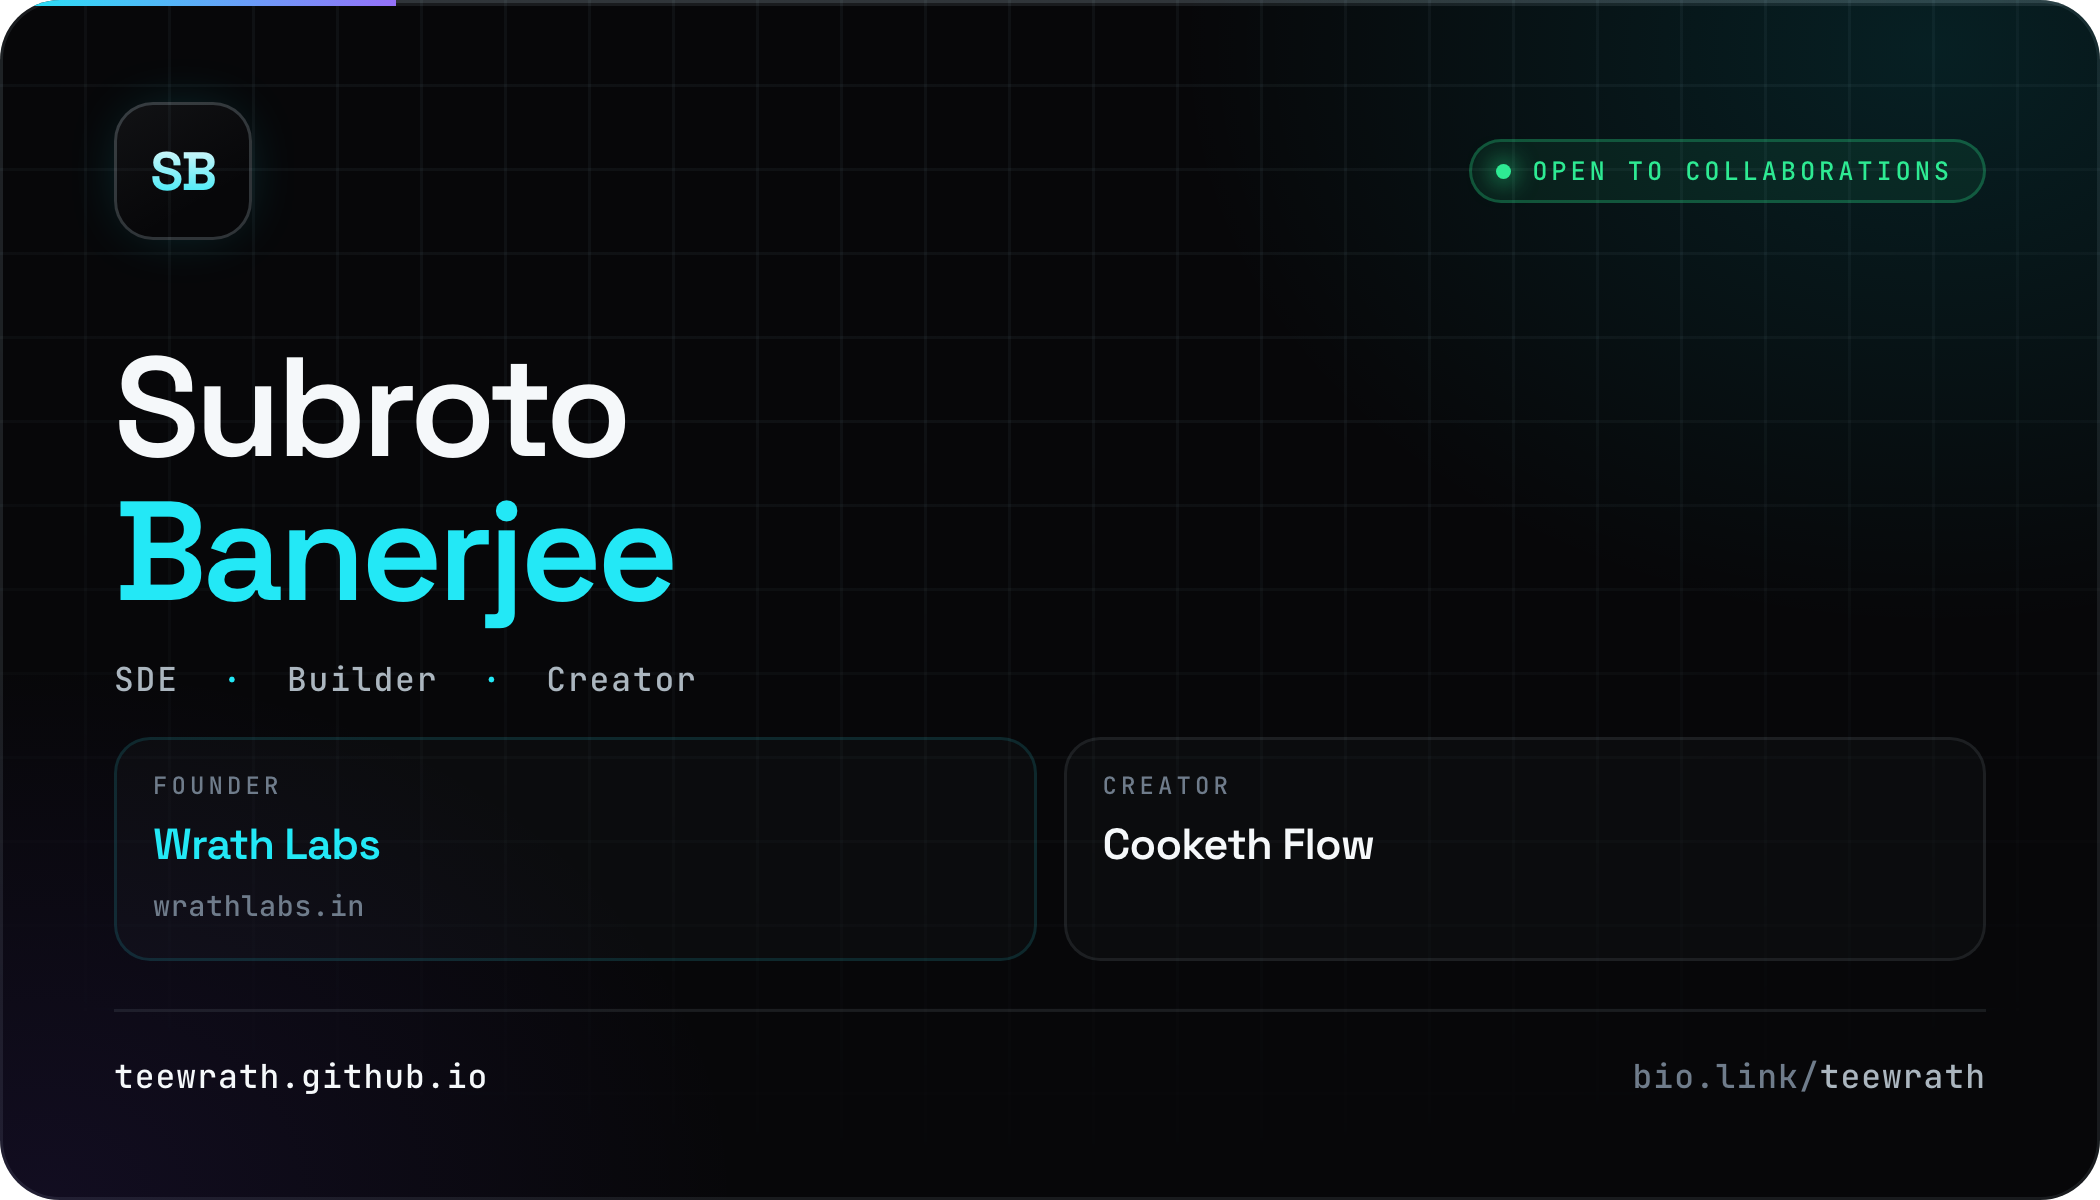
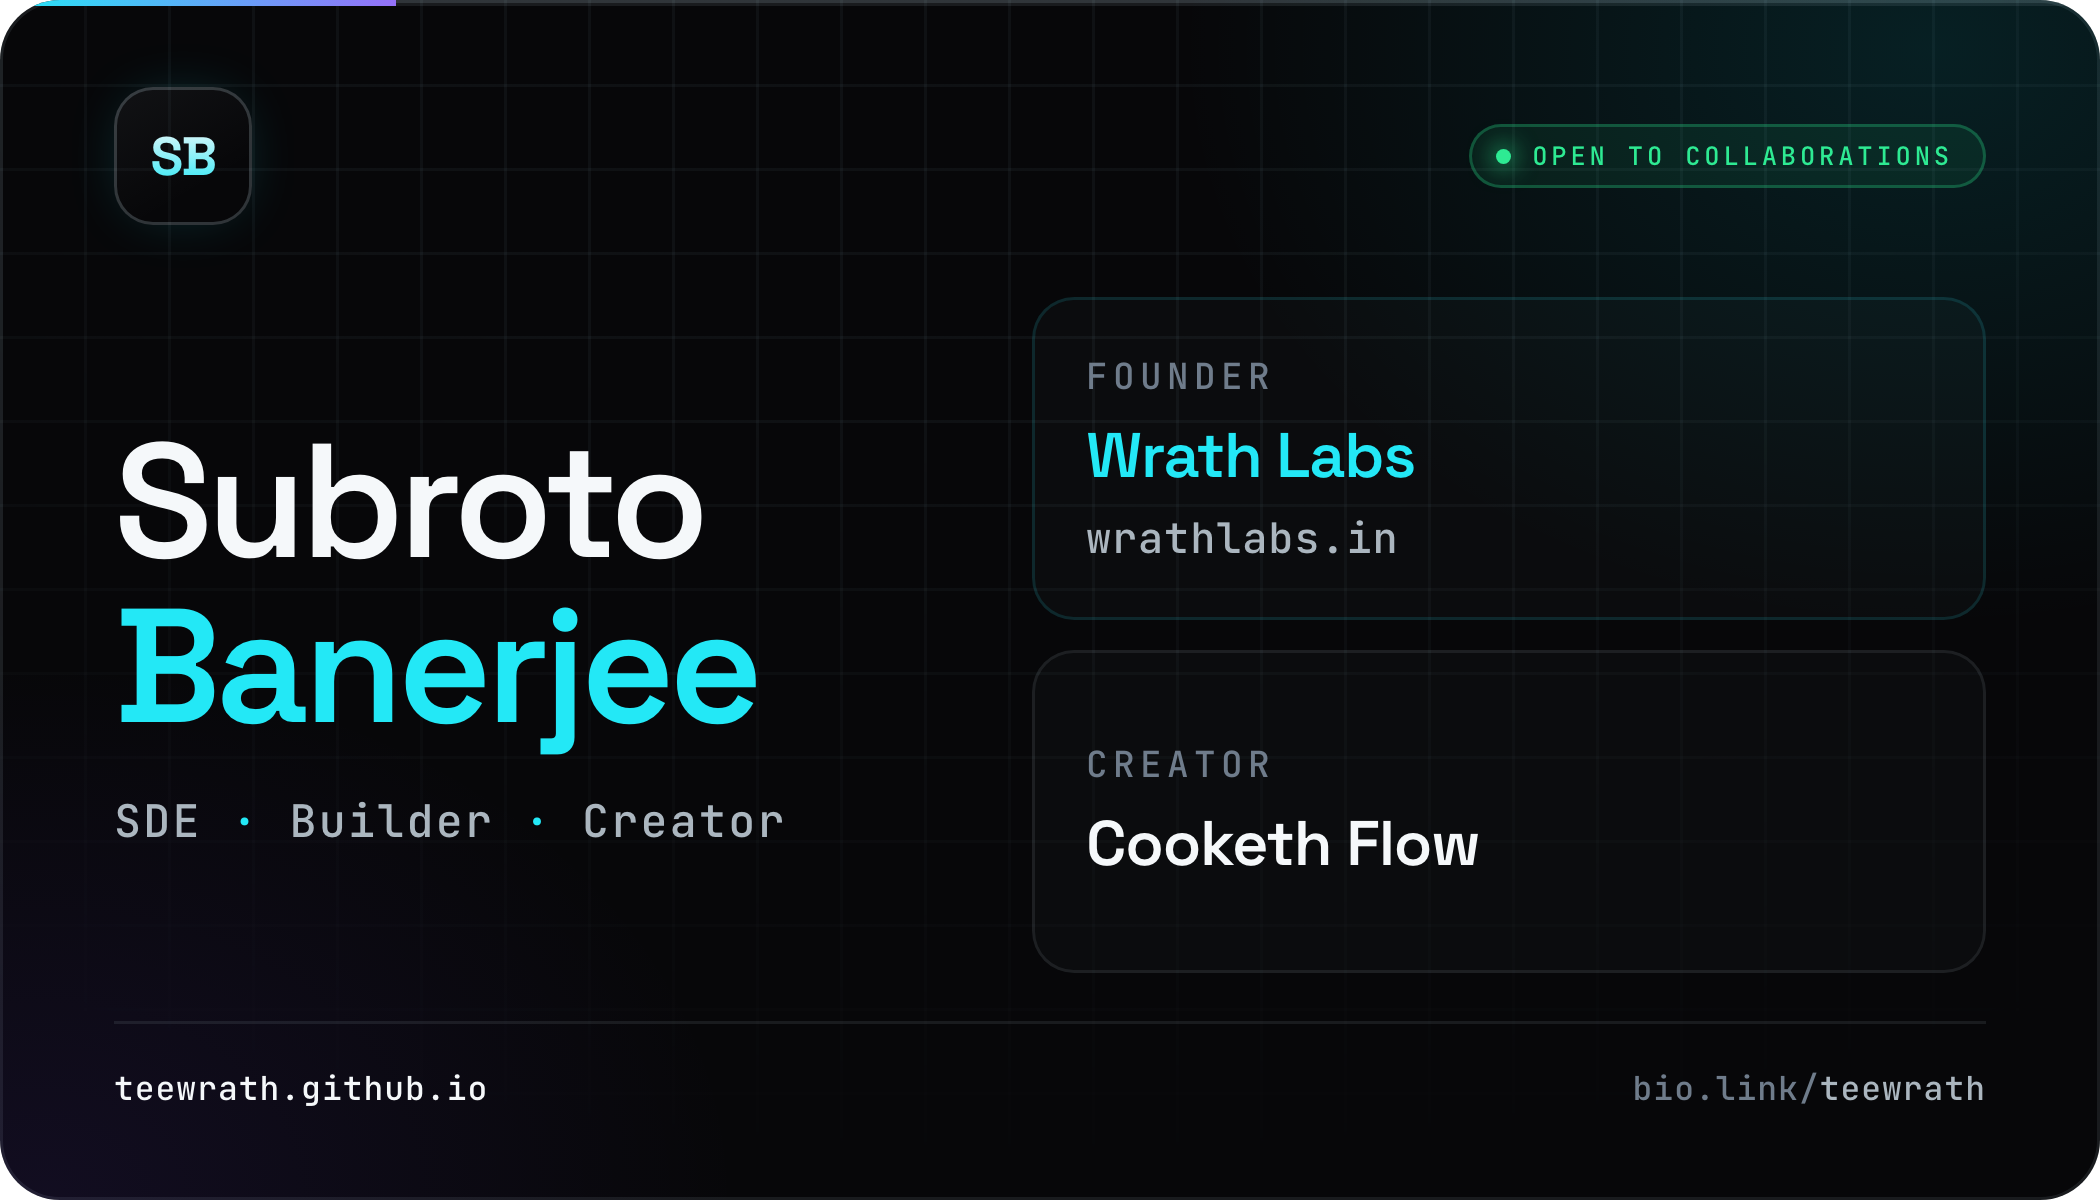
feat: rework business card typography and front layout
Back: drop the QR block and scale contact type up for print
(values 11.5px -> 19px, labels 8px -> 12px, headline 19px -> 27px,
service chips 8px -> 12px). Widen the contact grid so the LinkedIn
value no longer ellipsizes.

Front: move the Founder/Creator blocks into a right rail, keep the
role line under the name at 15px, and grow the name to 54px to
balance the two columns. Block type scaled for legibility in print.

Regenerate card-front.png, card-back.png and card-preview.png.

Claude-Session: https://claude.ai/code/session_01GKCs5BxY3T1fesh9i3GrWv

diff --git a/assets/business-card/card-preview.html b/assets/business-card/card-preview.html
@@ -74,7 +74,7 @@
     mask-image: radial-gradient(120% 120% at 50% 0%, #000 30%, transparent 82%);
     z-index: 0;
   }
-  .inner { position: relative; z-index: 2; height: 100%; padding: 34px 38px; display: flex; flex-direction: column; }
+  .inner { position: relative; z-index: 2; height: 100%; padding: 29px 38px 30px; display: flex; flex-direction: column; }
 
   /* top hairline rule with an accent segment, echoing the site's section heads */
   .rule { position: absolute; left: 0; right: 0; top: 0; height: 2px; background: var(--hairline); z-index: 3; }
@@ -117,36 +117,39 @@
   /* ---------------- FRONT ---------------- */
   .name {
     font-family: var(--ff-display); font-weight: 600;
-    font-size: 47px; line-height: 1.02; letter-spacing: -0.035em;
+    font-size: 54px; line-height: 1.02; letter-spacing: -0.035em;
     color: var(--text-hi);
   }
   .name em { font-style: normal; color: var(--accent); }
+  .body { flex: 1; margin-top: 24px; display: flex; align-items: stretch; gap: 26px; }
+  .idcol { flex: 1 1 auto; min-width: 0; display: flex; flex-direction: column; justify-content: center; }
   .role {
-    margin-top: 11px;
-    font-family: var(--ff-mono); font-size: 11px; font-weight: 500;
-    letter-spacing: 0.055em; color: var(--text-mid);
+    margin-top: 14px; white-space: nowrap;
+    font-family: var(--ff-mono); font-size: 15px; font-weight: 500;
+    letter-spacing: 0.05em; color: var(--text-mid);
   }
   .role s { text-decoration: none; color: var(--accent); }
 
-  .hats { margin-top: auto; display: flex; gap: 9px; }
+  .hats { flex: none; width: 318px; display: flex; flex-direction: column; gap: 10px; }
   .hat {
     flex: 1;
-    padding: 11px 13px 12px;
-    border-radius: 12px;
+    display: flex; flex-direction: column; justify-content: center;
+    padding: 13px 18px;
+    border-radius: 14px;
     background: var(--panel);
     box-shadow: inset 0 0 0 1px var(--hairline);
   }
-  .hat p { font-family: var(--ff-mono); font-size: 8px; font-weight: 500;
-           letter-spacing: 0.17em; text-transform: uppercase; color: var(--text-low); }
+  .hat p { font-family: var(--ff-mono); font-size: 12px; font-weight: 500;
+           letter-spacing: 0.15em; text-transform: uppercase; color: var(--text-low); }
   .hat b { display: block; margin-top: 5px;
-           font-family: var(--ff-display); font-weight: 600; font-size: 14.5px;
+           font-family: var(--ff-display); font-weight: 600; font-size: 21px;
            letter-spacing: -0.02em; color: var(--text-hi); }
   .hat i { display: block; margin-top: 5px; font-style: normal;
-           font-family: var(--ff-mono); font-size: 9.5px; font-weight: 500;
-           letter-spacing: 0.02em; color: var(--text-low); }
+           font-family: var(--ff-mono); font-size: 14px; font-weight: 500;
+           letter-spacing: 0.02em; color: var(--text-mid); }
   .hat i { display: block; margin-top: 5px; font-style: normal;
-           font-family: var(--ff-mono); font-size: 9.5px; font-weight: 500;
-           letter-spacing: 0.02em; color: var(--text-low); }
+           font-family: var(--ff-mono); font-size: 14px; font-weight: 500;
+           letter-spacing: 0.02em; color: var(--text-mid); }
   .hat.a { box-shadow: inset 0 0 0 1px var(--accent-dim); }
   .hat.a b { color: var(--accent); }
 
@@ -165,41 +168,31 @@
   /* ---------------- BACK ---------------- */
   .back .inner { padding: 32px 36px; }
   .bhead { display: flex; align-items: flex-start; justify-content: space-between; gap: 20px; }
-  .bhead h3 { font-family: var(--ff-display); font-weight: 600; font-size: 19px;
+  .bhead h3 { font-family: var(--ff-display); font-weight: 600; font-size: 27px;
               letter-spacing: -0.025em; color: var(--text-hi); margin-top: 3px; }
-  .bhead .kicker { display: block; margin-bottom: 0; }
+  .bhead .kicker { display: block; margin-bottom: 4px; }
+  .back .kicker { font-size: 13px; letter-spacing: 0.17em; }
 
-  .cols { flex: 1; align-content: center; display: grid; grid-template-columns: 1fr 1fr; column-gap: 26px; row-gap: 30px; padding: 4px 0; }
-  .row { display: flex; flex-direction: column; align-items: flex-start; gap: 7px; min-width: 0; }
+  .cols { flex: 1; align-content: center; display: grid; grid-template-columns: 386px 1fr; column-gap: 20px; row-gap: 26px; padding: 4px 0; }
+  .row { display: flex; flex-direction: column; align-items: flex-start; gap: 8px; min-width: 0; }
   .row .k {
     flex: none;
-    font-family: var(--ff-mono); font-size: 8px; font-weight: 600;
+    font-family: var(--ff-mono); font-size: 12px; font-weight: 600;
     letter-spacing: 0.13em; text-transform: uppercase; color: var(--accent);
   }
   .row .v {
-    font-family: var(--ff-mono); font-size: 11.5px; letter-spacing: 0.01em;
+    font-family: var(--ff-mono); font-size: 19px; letter-spacing: 0.01em;
     color: var(--text-hi); max-width: 100%; white-space: nowrap; overflow: hidden; text-overflow: ellipsis;
   }
   .row .v s { text-decoration: none; color: var(--text-low); }
 
-  .qrwrap { display: flex; align-items: center; gap: 13px; }
-  .qr {
-    width: 96px; height: 96px; flex: none; padding: 3px;
-    border-radius: 11px; background: var(--text-hi);
-    box-shadow: 0 0 0 1px var(--hairline-strong), 0 10px 26px -14px hsla(228, 40%, 1%, 0.8);
-  }
-  .qr svg { display: block; width: 100%; height: 100%; }
-  .qrnote { font-family: var(--ff-mono); font-size: 8.5px; line-height: 1.7;
-            letter-spacing: 0.11em; text-transform: uppercase; color: var(--text-low); }
-  .qrnote b { display: block; color: var(--text-mid); }
-
   .bfoot { margin-top: auto; padding-top: 13px; border-top: 1px solid var(--hairline);
            display: flex; flex-direction: column; align-items: flex-start; gap: 9px; }
-  .stack { display: flex; gap: 6px; }
+  .stack { display: flex; flex-wrap: wrap; gap: 7px; }
   .stack span {
-    font-family: var(--ff-mono); font-size: 8px; font-weight: 500;
-    letter-spacing: 0.1em; text-transform: uppercase; color: var(--text-low);
-    padding: 4px 8px; border-radius: 999px; box-shadow: inset 0 0 0 1px var(--hairline);
+    font-family: var(--ff-mono); font-size: 12px; font-weight: 500;
+    letter-spacing: 0.08em; text-transform: uppercase; color: var(--text-mid);
+    padding: 5px 10px; border-radius: 999px; box-shadow: inset 0 0 0 1px var(--hairline);
   }
 
   /* preview sheet */
@@ -220,18 +213,22 @@
       <span class="status"><b></b>Open to collaborations</span>
     </div>
 
-    <h1 class="name" style="margin-top:32px">Subroto<br /><em>Banerjee</em></h1>
-    <p class="role">SDE <s>&nbsp;·&nbsp;</s> Builder <s>&nbsp;·&nbsp;</s> Creator</p>
-
-    <div class="hats">
-      <div class="hat a">
-        <p>Founder</p>
-        <b>Wrath Labs</b>
-        <i>wrathlabs.in</i>
+    <div class="body">
+      <div class="idcol">
+        <h1 class="name">Subroto<br /><em>Banerjee</em></h1>
+        <p class="role">SDE<s>&nbsp;&middot;&nbsp;</s>Builder<s>&nbsp;&middot;&nbsp;</s>Creator</p>
       </div>
-      <div class="hat">
-        <p>Creator</p>
-        <b>Cooketh Flow</b>
+
+      <div class="hats">
+        <div class="hat a">
+          <p>Founder</p>
+          <b>Wrath Labs</b>
+          <i>wrathlabs.in</i>
+        </div>
+        <div class="hat">
+          <p>Creator</p>
+          <b>Cooketh Flow</b>
+        </div>
       </div>
     </div>
 
@@ -249,10 +246,6 @@
       <div>
         <span class="kicker">Get in touch</span>
         <h3>Let&rsquo;s build something.</h3>
-      </div>
-      <div class="qrwrap">
-        <div class="qrnote"><b>Scan</b>All links</div>
-        <div class="qr"><svg viewBox="0 0 33 33" shape-rendering="crispEdges" xmlns="http://www.w3.org/2000/svg"><path stroke="hsl(196,70%,5%)" d="M4 4.5h7m4 0h2m2 0h1m2 0h7M4 5.5h1m5 0h1m1 0h2m3 0h4m1 0h1m5 0h1M4 6.5h1m1 0h3m1 0h1m4 0h1m2 0h2m2 0h1m1 0h3m1 0h1M4 7.5h1m1 0h3m1 0h1m4 0h2m1 0h1m3 0h1m1 0h3m1 0h1M4 8.5h1m1 0h3m1 0h1m1 0h2m1 0h1m2 0h3m1 0h1m1 0h3m1 0h1M4 9.5h1m5 0h1m2 0h2m2 0h4m1 0h1m5 0h1M4 10.5h7m1 0h1m1 0h1m1 0h1m1 0h1m1 0h1m1 0h7M16 11.5h3M4 12.5h1m1 0h1m1 0h1m1 0h1m5 0h2m1 0h2m3 0h1m2 0h1M5 13.5h1m5 0h1m1 0h3m1 0h1m2 0h3m5 0h1M4 14.5h5m1 0h7m3 0h1m5 0h3M5 15.5h1m3 0h1m1 0h1m2 0h1m2 0h2m1 0h1m2 0h1m3 0h1M4 16.5h4m1 0h2m5 0h2m1 0h4m2 0h1m1 0h2M5 17.5h1m7 0h6m1 0h3m2 0h1m2 0h1M4 18.5h1m1 0h1m3 0h2m3 0h3m3 0h1m1 0h1m2 0h3M5 19.5h1m1 0h2m2 0h4m1 0h4m2 0h1m1 0h1m2 0h1M4 20.5h1m1 0h1m1 0h1m1 0h1m1 0h6m1 0h7M12 21.5h1m2 0h1m1 0h4m3 0h2m1 0h2M4 22.5h7m3 0h1m1 0h5m1 0h1m1 0h2m1 0h2M4 23.5h1m5 0h1m4 0h1m1 0h1m2 0h1m3 0h2M4 24.5h1m1 0h3m1 0h1m1 0h6m2 0h6M4 25.5h1m1 0h3m1 0h1m3 0h1m1 0h2m1 0h1m1 0h1m1 0h4M4 26.5h1m1 0h3m1 0h1m1 0h1m3 0h1m1 0h2m4 0h1m3 0h1M4 27.5h1m5 0h1m2 0h8m1 0h1m1 0h2m1 0h1M4 28.5h7m1 0h1m1 0h1m2 0h1m1 0h2m2 0h1m3 0h2"/></svg></div>
       </div>
     </div>
 

diff --git a/assets/business-card/card-back.html b/assets/business-card/card-back.html
@@ -165,41 +165,31 @@
   /* ---------------- BACK ---------------- */
   .back .inner { padding: 32px 36px; }
   .bhead { display: flex; align-items: flex-start; justify-content: space-between; gap: 20px; }
-  .bhead h3 { font-family: var(--ff-display); font-weight: 600; font-size: 19px;
+  .bhead h3 { font-family: var(--ff-display); font-weight: 600; font-size: 27px;
               letter-spacing: -0.025em; color: var(--text-hi); margin-top: 3px; }
-  .bhead .kicker { display: block; margin-bottom: 0; }
+  .bhead .kicker { display: block; margin-bottom: 4px; }
+  .back .kicker { font-size: 13px; letter-spacing: 0.17em; }
 
-  .cols { flex: 1; align-content: center; display: grid; grid-template-columns: 1fr 1fr; column-gap: 26px; row-gap: 30px; padding: 4px 0; }
-  .row { display: flex; flex-direction: column; align-items: flex-start; gap: 7px; min-width: 0; }
+  .cols { flex: 1; align-content: center; display: grid; grid-template-columns: 386px 1fr; column-gap: 20px; row-gap: 26px; padding: 4px 0; }
+  .row { display: flex; flex-direction: column; align-items: flex-start; gap: 8px; min-width: 0; }
   .row .k {
     flex: none;
-    font-family: var(--ff-mono); font-size: 8px; font-weight: 600;
+    font-family: var(--ff-mono); font-size: 12px; font-weight: 600;
     letter-spacing: 0.13em; text-transform: uppercase; color: var(--accent);
   }
   .row .v {
-    font-family: var(--ff-mono); font-size: 11.5px; letter-spacing: 0.01em;
+    font-family: var(--ff-mono); font-size: 19px; letter-spacing: 0.01em;
     color: var(--text-hi); max-width: 100%; white-space: nowrap; overflow: hidden; text-overflow: ellipsis;
   }
   .row .v s { text-decoration: none; color: var(--text-low); }
 
-  .qrwrap { display: flex; align-items: center; gap: 13px; }
-  .qr {
-    width: 96px; height: 96px; flex: none; padding: 3px;
-    border-radius: 11px; background: var(--text-hi);
-    box-shadow: 0 0 0 1px var(--hairline-strong), 0 10px 26px -14px hsla(228, 40%, 1%, 0.8);
-  }
-  .qr svg { display: block; width: 100%; height: 100%; }
-  .qrnote { font-family: var(--ff-mono); font-size: 8.5px; line-height: 1.7;
-            letter-spacing: 0.11em; text-transform: uppercase; color: var(--text-low); }
-  .qrnote b { display: block; color: var(--text-mid); }
-
   .bfoot { margin-top: auto; padding-top: 13px; border-top: 1px solid var(--hairline);
            display: flex; flex-direction: column; align-items: flex-start; gap: 9px; }
-  .stack { display: flex; gap: 6px; }
+  .stack { display: flex; flex-wrap: wrap; gap: 7px; }
   .stack span {
-    font-family: var(--ff-mono); font-size: 8px; font-weight: 500;
-    letter-spacing: 0.1em; text-transform: uppercase; color: var(--text-low);
-    padding: 4px 8px; border-radius: 999px; box-shadow: inset 0 0 0 1px var(--hairline);
+    font-family: var(--ff-mono); font-size: 12px; font-weight: 500;
+    letter-spacing: 0.08em; text-transform: uppercase; color: var(--text-mid);
+    padding: 5px 10px; border-radius: 999px; box-shadow: inset 0 0 0 1px var(--hairline);
   }
 
   /* preview sheet */
@@ -218,10 +208,6 @@
       <div>
         <span class="kicker">Get in touch</span>
         <h3>Let&rsquo;s build something.</h3>
-      </div>
-      <div class="qrwrap">
-        <div class="qrnote"><b>Scan</b>All links</div>
-        <div class="qr"><svg viewBox="0 0 33 33" shape-rendering="crispEdges" xmlns="http://www.w3.org/2000/svg"><path stroke="hsl(196,70%,5%)" d="M4 4.5h7m4 0h2m2 0h1m2 0h7M4 5.5h1m5 0h1m1 0h2m3 0h4m1 0h1m5 0h1M4 6.5h1m1 0h3m1 0h1m4 0h1m2 0h2m2 0h1m1 0h3m1 0h1M4 7.5h1m1 0h3m1 0h1m4 0h2m1 0h1m3 0h1m1 0h3m1 0h1M4 8.5h1m1 0h3m1 0h1m1 0h2m1 0h1m2 0h3m1 0h1m1 0h3m1 0h1M4 9.5h1m5 0h1m2 0h2m2 0h4m1 0h1m5 0h1M4 10.5h7m1 0h1m1 0h1m1 0h1m1 0h1m1 0h1m1 0h7M16 11.5h3M4 12.5h1m1 0h1m1 0h1m1 0h1m5 0h2m1 0h2m3 0h1m2 0h1M5 13.5h1m5 0h1m1 0h3m1 0h1m2 0h3m5 0h1M4 14.5h5m1 0h7m3 0h1m5 0h3M5 15.5h1m3 0h1m1 0h1m2 0h1m2 0h2m1 0h1m2 0h1m3 0h1M4 16.5h4m1 0h2m5 0h2m1 0h4m2 0h1m1 0h2M5 17.5h1m7 0h6m1 0h3m2 0h1m2 0h1M4 18.5h1m1 0h1m3 0h2m3 0h3m3 0h1m1 0h1m2 0h3M5 19.5h1m1 0h2m2 0h4m1 0h4m2 0h1m1 0h1m2 0h1M4 20.5h1m1 0h1m1 0h1m1 0h1m1 0h6m1 0h7M12 21.5h1m2 0h1m1 0h4m3 0h2m1 0h2M4 22.5h7m3 0h1m1 0h5m1 0h1m1 0h2m1 0h2M4 23.5h1m5 0h1m4 0h1m1 0h1m2 0h1m3 0h2M4 24.5h1m1 0h3m1 0h1m1 0h6m2 0h6M4 25.5h1m1 0h3m1 0h1m3 0h1m1 0h2m1 0h1m1 0h1m1 0h4M4 26.5h1m1 0h3m1 0h1m1 0h1m3 0h1m1 0h2m4 0h1m3 0h1M4 27.5h1m5 0h1m2 0h8m1 0h1m1 0h2m1 0h1M4 28.5h7m1 0h1m1 0h1m2 0h1m1 0h2m2 0h1m3 0h2"/></svg></div>
       </div>
     </div>
 

diff --git a/assets/business-card/card-front.html b/assets/business-card/card-front.html
@@ -74,7 +74,7 @@
     mask-image: radial-gradient(120% 120% at 50% 0%, #000 30%, transparent 82%);
     z-index: 0;
   }
-  .inner { position: relative; z-index: 2; height: 100%; padding: 34px 38px; display: flex; flex-direction: column; }
+  .inner { position: relative; z-index: 2; height: 100%; padding: 29px 38px 30px; display: flex; flex-direction: column; }
 
   /* top hairline rule with an accent segment, echoing the site's section heads */
   .rule { position: absolute; left: 0; right: 0; top: 0; height: 2px; background: var(--hairline); z-index: 3; }
@@ -117,36 +117,39 @@
   /* ---------------- FRONT ---------------- */
   .name {
     font-family: var(--ff-display); font-weight: 600;
-    font-size: 47px; line-height: 1.02; letter-spacing: -0.035em;
+    font-size: 54px; line-height: 1.02; letter-spacing: -0.035em;
     color: var(--text-hi);
   }
   .name em { font-style: normal; color: var(--accent); }
+  .body { flex: 1; margin-top: 24px; display: flex; align-items: stretch; gap: 26px; }
+  .idcol { flex: 1 1 auto; min-width: 0; display: flex; flex-direction: column; justify-content: center; }
   .role {
-    margin-top: 11px;
-    font-family: var(--ff-mono); font-size: 11px; font-weight: 500;
-    letter-spacing: 0.055em; color: var(--text-mid);
+    margin-top: 14px; white-space: nowrap;
+    font-family: var(--ff-mono); font-size: 15px; font-weight: 500;
+    letter-spacing: 0.05em; color: var(--text-mid);
   }
   .role s { text-decoration: none; color: var(--accent); }
 
-  .hats { margin-top: auto; display: flex; gap: 9px; }
+  .hats { flex: none; width: 318px; display: flex; flex-direction: column; gap: 10px; }
   .hat {
     flex: 1;
-    padding: 11px 13px 12px;
-    border-radius: 12px;
+    display: flex; flex-direction: column; justify-content: center;
+    padding: 13px 18px;
+    border-radius: 14px;
     background: var(--panel);
     box-shadow: inset 0 0 0 1px var(--hairline);
   }
-  .hat p { font-family: var(--ff-mono); font-size: 8px; font-weight: 500;
-           letter-spacing: 0.17em; text-transform: uppercase; color: var(--text-low); }
+  .hat p { font-family: var(--ff-mono); font-size: 12px; font-weight: 500;
+           letter-spacing: 0.15em; text-transform: uppercase; color: var(--text-low); }
   .hat b { display: block; margin-top: 5px;
-           font-family: var(--ff-display); font-weight: 600; font-size: 14.5px;
+           font-family: var(--ff-display); font-weight: 600; font-size: 21px;
            letter-spacing: -0.02em; color: var(--text-hi); }
   .hat i { display: block; margin-top: 5px; font-style: normal;
-           font-family: var(--ff-mono); font-size: 9.5px; font-weight: 500;
-           letter-spacing: 0.02em; color: var(--text-low); }
+           font-family: var(--ff-mono); font-size: 14px; font-weight: 500;
+           letter-spacing: 0.02em; color: var(--text-mid); }
   .hat i { display: block; margin-top: 5px; font-style: normal;
-           font-family: var(--ff-mono); font-size: 9.5px; font-weight: 500;
-           letter-spacing: 0.02em; color: var(--text-low); }
+           font-family: var(--ff-mono); font-size: 14px; font-weight: 500;
+           letter-spacing: 0.02em; color: var(--text-mid); }
   .hat.a { box-shadow: inset 0 0 0 1px var(--accent-dim); }
   .hat.a b { color: var(--accent); }
 
@@ -219,18 +222,22 @@
       <span class="status"><b></b>Open to collaborations</span>
     </div>
 
-    <h1 class="name" style="margin-top:32px">Subroto<br /><em>Banerjee</em></h1>
-    <p class="role">SDE <s>&nbsp;·&nbsp;</s> Builder <s>&nbsp;·&nbsp;</s> Creator</p>
-
-    <div class="hats">
-      <div class="hat a">
-        <p>Founder</p>
-        <b>Wrath Labs</b>
-        <i>wrathlabs.in</i>
+    <div class="body">
+      <div class="idcol">
+        <h1 class="name">Subroto<br /><em>Banerjee</em></h1>
+        <p class="role">SDE<s>&nbsp;&middot;&nbsp;</s>Builder<s>&nbsp;&middot;&nbsp;</s>Creator</p>
       </div>
-      <div class="hat">
-        <p>Creator</p>
-        <b>Cooketh Flow</b>
+
+      <div class="hats">
+        <div class="hat a">
+          <p>Founder</p>
+          <b>Wrath Labs</b>
+          <i>wrathlabs.in</i>
+        </div>
+        <div class="hat">
+          <p>Creator</p>
+          <b>Cooketh Flow</b>
+        </div>
       </div>
     </div>
 
